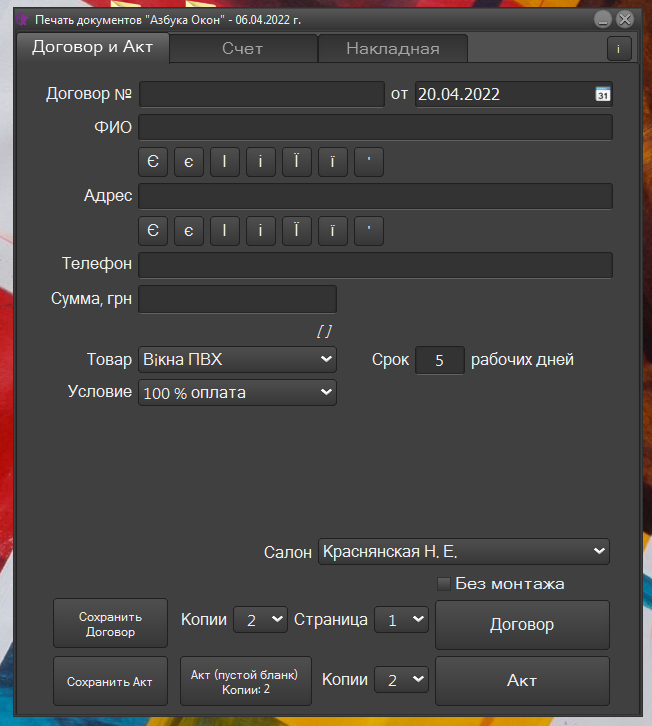
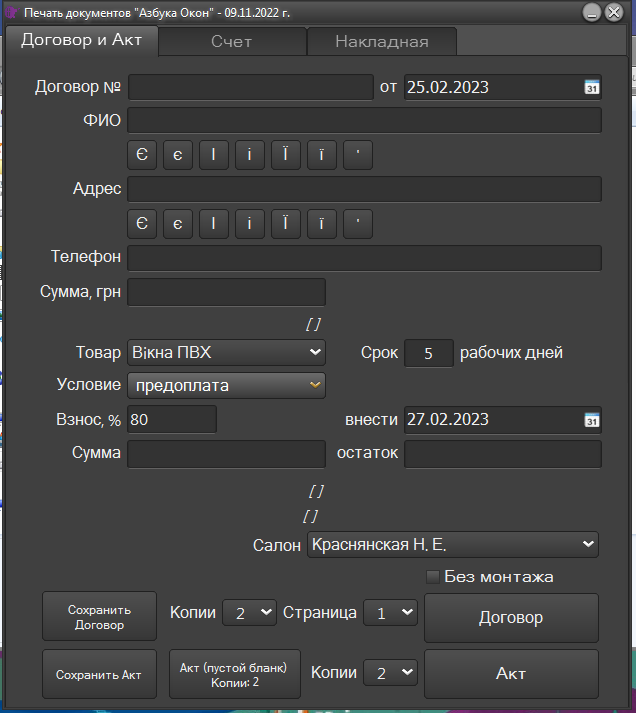
27-02

diff --git a/index.html b/index.html
@@ -29,7 +29,7 @@
 				</label>
 				<label for="rate" class="rate">
 					<i class="far fa-envelope"></i>
-					<span class="topic">Расходная</span>
+					<span class="topic">Накладная</span>
 				</label>
 				<label for="business" class="business">
 					<i class="far fa-user"></i>
@@ -43,7 +43,7 @@
 					<input type="text" id="contract-text" maxlength="10" placeholder="Номер договора" autofocus>
 
 					<label for="calendar">от</label>
-					<input type="date" name="calendar" id="myDate">
+					<input type="date" class="input-date" id="myDate">
 
 					<input type="text" id="client" placeholder="ФИО" maxlength="50">
 
@@ -51,21 +51,51 @@
 
 					<input type="text" id="telephone" placeholder="Номер телефона" maxlength="30">
 
-					<input type="text" id="price" placeholder="Сумма, грн" maxlength="9" onKeyUp="num2str(this.value, 'price-words')">
-					<p id="price-words">[сумма прописью]</p>
+					<input type="text" id="price" placeholder="Сумма, грн" maxlength="7" onKeyUp="num2str(this.value, 'price-words')">
+					<p class="price-words">[сумма прописью]</p>
 					
 					<div class="group">
-						<select id="product">
+						<select class="select-items" id="product">
 							<option value="value1" selected>Вiкна ПВХ</option>
 							<option value="value2">Ролети</option>
 						</select>
 
-						<label id="term-label" for="term">Срок</label>
-						<input type="text" id="term" value="5" maxlength="2">
+						<label class="term-label" for="term">Срок</label>
+						<input type="text" class="term" value="5" maxlength="2">
 						<span>рабочих дней</span>
-					</div>				
+					</div>
 
-					<button>Печать</button>
+					<select class="select-items" id="terms-of-payment">
+						<option value="value1" selected>100% оплата</option>
+						<option value="value2">предоплата</option>
+					</select>
+					
+					<div id="term-details">
+						<input type="text" id="term-details__pay" value="80">
+						<span>%</span>
+						<label for="input-date">внести</label>
+						<input type="date" class="input-date" id="date-pay">
+					</div>
+
+					<div class="buttons">
+						<div class="buttons-contract">
+							<button>Сохранить Договор</button>
+							<select class="select-copies">
+								<option value="2" selected>2 копии</option>
+								<option value="1">1 копия</option>
+							</select>
+							<button>Договор</button>
+						</div>
+						<div class="buttons-act">
+							<button>Сохранить Акт</button>
+							<select class="select-copies">
+								<option value="2" selected>2 копии</option>
+								<option value="1">1 копия</option>
+							</select>
+							<button>Акт</button>
+						</div>
+					</div>
+					
 				</div>
 				<div class="invoice text">
 					<p>Minus vel consequatur, quae delectus ipsa ut architecto totam officia, laborum repudiandae eius unde eligendi atque ipsam.</p>

diff --git a/style.css b/style.css
@@ -17,12 +17,11 @@ body {
 }
 
 .container {
-	max-width: 850px;
-	width: 100%;
-	min-height: 500px;
-	margin: 0 20px;
+	width: 750px;
+	height: 550px;
+	margin: 15px;
 	background: #fff;
-	padding: 30px 5px 5px 30px;
+	padding: 20px;
 	border-radius: 12px;
 	box-shadow: 0 5px 10px rgba(0, 0, 0, 0.2);
 }
@@ -42,7 +41,7 @@ body {
 	display: flex;
 	flex-direction: column;
 	position: relative;
-	width: 25%;
+	width: 35%;
 	margin-right: 25px;
 }
 
@@ -50,7 +49,7 @@ body {
 	height: 50px;
 	border-radius: 12px;
 	line-height: 60px;
-	font-size: 19px;
+	font-size: 17px;
 	font-weight: 400;
 	cursor: pointer;
 	padding-left: 25px;
@@ -136,14 +135,6 @@ body {
 	margin-bottom: 10px;
 }
 
-#contract-text{
-	width: 45%;
-}
-
-#myDate {
-	width: 26%;
-}
-
 #client,
 #adress,
 #price{
@@ -153,36 +144,47 @@ body {
 #client,
 #adress,
 #telephone {
-	min-width: 75%;
+	min-width: 95%;
 }
 
-input[type='text'],
-#myDate{
-	margin-bottom: 10px;
+#price,
+#contract-text {
+	width: 45%;
+}
+
+/* .input-date {
+	width: 45%;
+} */
+
+input{
+	margin-bottom: 8px;
 	border-radius: 8px;
 	font-size: 14px;
-	padding: 10px;
+	padding: 6px;
 	border: 1px solid #6d50e2;
 }
 
-input[type='text']:focus,
-#myDate:focus,
-#product:focus {
+input:focus,
+#product:focus,
+.input-date:focus {
 	outline: #6d50e2;
 }
 
-#price-words {
+.price-words {
 	margin-bottom: 10px;
 	font-style: italic;
+	max-width: 95%;
+	text-align: left;
+	font-size: 14px;
 }
 
 button {
 	display: block;
-	width: 20%;
 	border-radius: 8px;
-	font-size: 16px;
-	padding: 10px;
+	font-size: 14px;
+	padding: 8px;
 	border: 1.5px solid #6d50e2;
+	margin: 10px;
 }
 
 button:hover {
@@ -192,9 +194,8 @@ button:hover {
 }
 
 select {
-	height: 40px;
-	width: 25%;
-	margin-bottom: 10px;
+	height: 30px;
+	margin-bottom: 8px;
 	border-radius: 8px;
 	font-size: 14px;
 	padding: 5px;
@@ -205,12 +206,25 @@ select:focus {
 	outline: #6d50e2;
 }
 
-#term {
+.select-items {
+	width: 45%;
+}
+
+.term {
 	width: 8%;
 	text-align: center;
 	margin-left: 5px;
 }
 
-#term-label {
+.term-label {
 	margin-left: 25px;
+}
+
+.buttons-contract,
+.buttons-act {
+	display: flex;
+}
+
+#term-details {
+	visibility: hidden;
 }

diff --git a/app.js b/app.js
@@ -1,16 +1,30 @@
-const currentTime = () => {
-var dayInMilliseconds = 1000 * 60;
+const select = document.getElementById('terms-of-payment');
+const termDetails = document.getElementById('term-details');
+const dateContract = document.getElementById("myDate");
+const datePay = document.getElementById("date-pay");
 
 let date = new Date(),
-	dayOfDate = date.getDate();
-	month = date.getMonth()+1;
-	if (month < 10) {
-		month = '0'+month;
-	}
-	year = date.getFullYear();
-	
-	document.getElementById("myDate").value = year+'-'+month+'-'+dayOfDate;
-};
-currentTime();
-setInterval(currentTime, dayInMilliseconds);
+		dayOfDate = date.getDate(),
+		month = date.getMonth()+1;
+		year = date.getFullYear();
+
+		if (month < 10) {
+				month = '0'+month;
+		}
+
+dateContract.value = year+'-'+month+'-'+dayOfDate;
+
+select.addEventListener('change', function handleChange(event) {
+	if (select.options[select.selectedIndex].value == 'value1') {
+		termDetails.style.visibility = "hidden";
+	} else {
+		termDetails.style.visibility = "visible";	
+		datePay.value = year+'-'+month+'-'+dayOfDate;
+});
+
+
+
+
+
+
 
